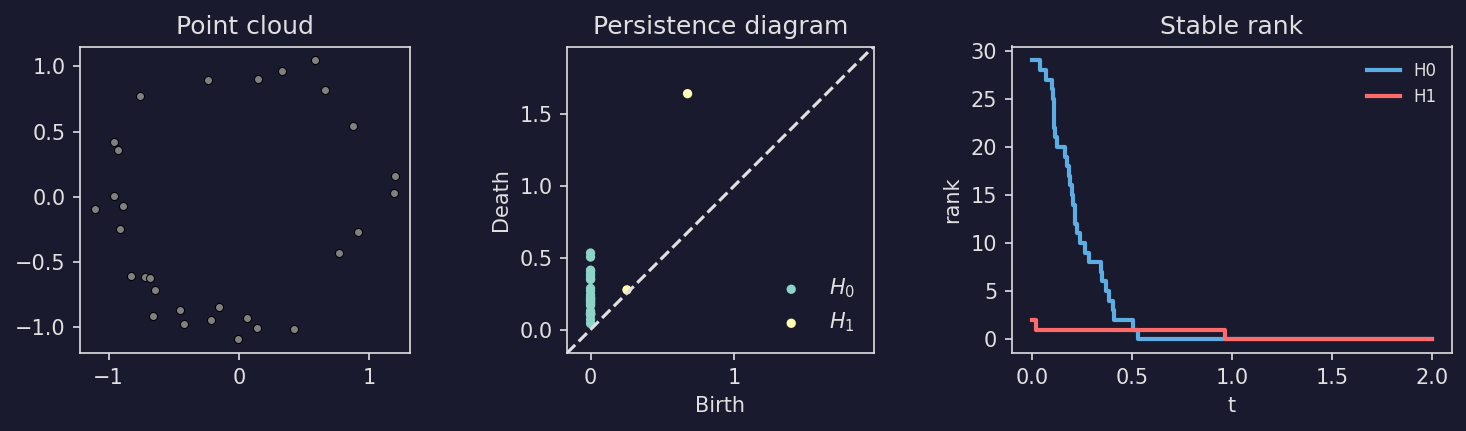
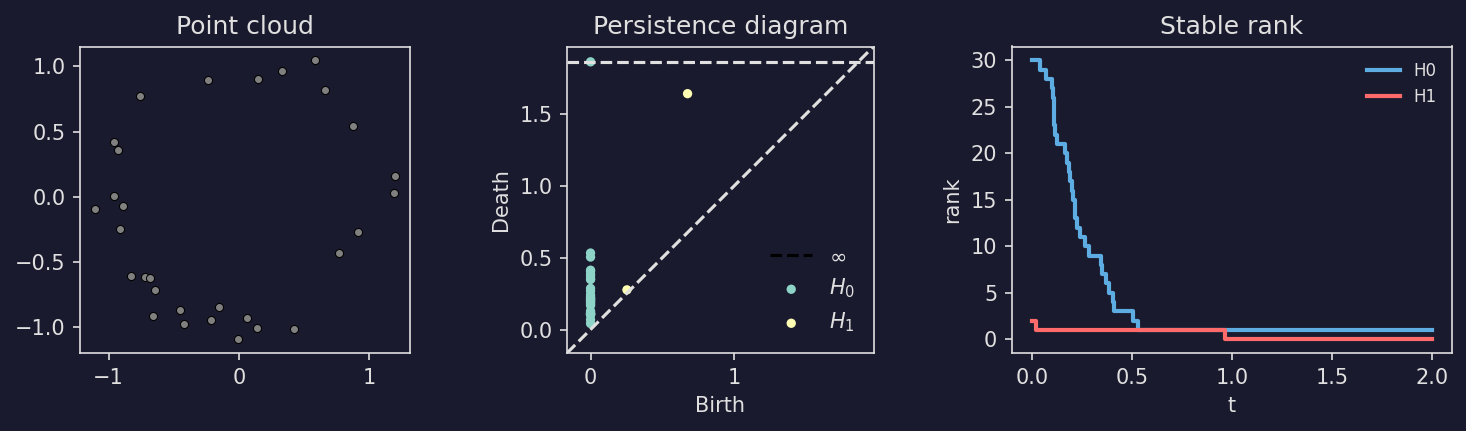
Unreduced homology by default

diff --git a/include/mpcf/persistence/compute_persistence.h b/include/mpcf/persistence/compute_persistence.h
@@ -31,7 +31,7 @@ namespace mpcf::ph
   namespace detail
   {
     template <typename T>
-    void compute_persistence_euclidean_single_impl(const Tensor<PointCloud<T>>& pclouds, Tensor<Barcode<T>>& ret, size_t maxDim, const std::vector<size_t>& index)
+    void compute_persistence_euclidean_single_impl(const Tensor<PointCloud<T>>& pclouds, Tensor<Barcode<T>>& ret, size_t maxDim, const std::vector<size_t>& index, bool reducedHomology = false)
     {
       if (index.back() != 0)
       {
@@ -94,21 +94,22 @@ namespace mpcf::ph
         auto retIdx = index;
         retIdx.back() = i;
 
-        if constexpr (std::is_same_v<T, rips::value_t>)
+        std::vector<PersistencePair<T>> bars;
+        bars.reserve(intervals.size() + 1);
+
+        // Ripser computes reduced homology. When unreduced homology is
+        // requested, insert the essential H0 class (born at 0, never dies).
+        if (i == 0 && !reducedHomology)
         {
-          ret(retIdx) = intervals;
+          bars.emplace_back(T{0}, std::numeric_limits<T>::infinity());
         }
-        else
+
+        for (auto const& rpair : intervals)
         {
-          // TODO: template on bar type in Ripser so that we don't have to do this conversion
-          std::vector<PersistencePair<T>> conv;
-          conv.resize(intervals.size());
-          std::transform(intervals.begin(), intervals.end(), conv.begin(),
-            [](const PersistencePair<rips::value_t>& rpair) {
-              return PersistencePair<T>(static_cast<T>(rpair.birth), static_cast<T>(rpair.death));
-            });
-          ret(retIdx) = conv;
+          bars.emplace_back(static_cast<T>(rpair.birth), static_cast<T>(rpair.death));
         }
+
+        ret(retIdx) = std::move(bars);
       }
     }
   }
@@ -117,8 +118,8 @@ namespace mpcf::ph
   class RipserTask : public StoppableTask<void>
   {
   public:
-    RipserTask(const Tensor<PointCloud<T>>& pclouds, Tensor<Barcode<T>>& ret, size_t maxDim = 1)
-      : m_pclouds(pclouds), m_ret(ret), m_maxDim(maxDim)
+    RipserTask(const Tensor<PointCloud<T>>& pclouds, Tensor<Barcode<T>>& ret, size_t maxDim = 1, bool reducedHomology = false)
+      : m_pclouds(pclouds), m_ret(ret), m_maxDim(maxDim), m_reducedHomology(reducedHomology)
     { }
 
   private:
@@ -142,7 +143,7 @@ namespace mpcf::ph
         flow.emplace([this, index] {
           if (stop_requested())
             return;
-          detail::compute_persistence_euclidean_single_impl(m_pclouds, m_ret, m_maxDim, index);
+          detail::compute_persistence_euclidean_single_impl(m_pclouds, m_ret, m_maxDim, index, m_reducedHomology);
           add_progress(1);
         });
       });
@@ -153,6 +154,7 @@ namespace mpcf::ph
     const Tensor<PointCloud<T>>& m_pclouds;
     Tensor<Barcode<T>>& m_ret;
     size_t m_maxDim;
+    bool m_reducedHomology;
 
   };
 

diff --git a/test/python/persistence/test_ripser.py b/test/python/persistence/test_ripser.py
@@ -72,15 +72,18 @@ def test_persistence_ripser_compute_euclidean_barcode_from_pcloud_tensor_returns
     assert bcs.shape == (3, 2, 7, 4)
 
 
-def test_persistence_ripser_compute_euclidean_barcode_gets_correct_barcode():
-    X = np.zeros((4, 2))
-
+def _make_rectangle_point_cloud():
     # Distance space is "two 3-4-5 triangles". This gives nontrivial H0 and H1 with bars at integers.
-
+    X = np.zeros((4, 2))
     X[0, :] = [0.0, 0.0]
     X[1, :] = [0.0, 4.0]
     X[2, :] = [3.0, 0.0]
     X[3, :] = [3.0, 4.0]
+    return X
+
+
+def test_persistence_ripser_unreduced_homology():
+    X = _make_rectangle_point_cloud()
 
     bcs = mpers.compute_persistent_homology(
         X,
@@ -93,14 +96,35 @@ def test_persistence_ripser_compute_euclidean_barcode_gets_correct_barcode():
     h1 = bcs[1]
     h2 = bcs[2]
 
-    expected_h0_bars = np.array([[0.0, 3.0], [0.0, 3.0], [0.0, 4]])
-    expected_h0 = mpers.Barcode(expected_h0_bars)
+    expected_h0 = mpers.Barcode(np.array([
+        [0.0, np.inf], [0.0, 3.0], [0.0, 3.0], [0.0, 4.0],
+    ]))
+    expected_h1 = mpers.Barcode(np.array([[4.0, 5.0]]))
+    expected_h2 = mpers.Barcode(np.zeros((0, 2)))
 
-    expected_h1_bars = np.array([[4.0, 5.0]])
-    expected_h1 = mpers.Barcode(expected_h1_bars)
+    assert expected_h0.is_isomorphic_to(h0)
+    assert expected_h1.is_isomorphic_to(h1)
+    assert expected_h2.is_isomorphic_to(h2)
 
-    expected_h2_bars = np.zeros((0, 2))
-    expected_h2 = mpers.Barcode(expected_h2_bars)
+
+def test_persistence_ripser_reduced_homology():
+    X = _make_rectangle_point_cloud()
+
+    bcs = mpers.compute_persistent_homology(
+        X,
+        maxDim=2,
+        reduced=True,
+        complex_type=mpers.ComplexType.VietorisRips,
+        distance_type=mpers.DistanceType.Euclidean,
+    )
+
+    h0 = bcs[0]
+    h1 = bcs[1]
+    h2 = bcs[2]
+
+    expected_h0 = mpers.Barcode(np.array([[0.0, 3.0], [0.0, 3.0], [0.0, 4.0]]))
+    expected_h1 = mpers.Barcode(np.array([[4.0, 5.0]]))
+    expected_h2 = mpers.Barcode(np.zeros((0, 2)))
 
     assert expected_h0.is_isomorphic_to(h0)
     assert expected_h1.is_isomorphic_to(h1)

diff --git a/masspcf/persistence/homology.py b/masspcf/persistence/homology.py
@@ -47,6 +47,7 @@ def compute_persistent_homology(
     maxDim: int = 1,
     distance_type: DistanceType = DistanceType.Euclidean,
     complex_type: ComplexType = ComplexType.VietorisRips,
+    reduced: bool = False,
     verbose: bool = True,
 ) -> Barcode32Tensor | Barcode64Tensor:
     r"""Compute persistent homology of a point cloud.
@@ -71,6 +72,10 @@ def compute_persistent_homology(
         Distance metric, by default ``DistanceType.Euclidean``.
     complex_type : ComplexType, optional
         Simplicial complex type, by default ``ComplexType.VietorisRips``.
+    reduced : bool, optional
+        If ``True``, compute reduced homology (no essential H0 class).
+        If ``False`` (default), an infinite bar ``[0, inf)`` is added to
+        H0 representing the single connected component.
     verbose : bool, optional
         Show progress information, by default True.
 
@@ -118,7 +123,7 @@ def compute_persistent_homology(
         # Use Ripser
         match distance_type:
             case DistanceType.Euclidean:
-                task = _compute_barcodes_euclidean_pcloud_ripser(X, out, maxDim)
+                task = _compute_barcodes_euclidean_pcloud_ripser(X, out, maxDim, reduced)
             case _:
                 raise ValueError(
                     f"Distance type {distance_type} not supported for complex type {complex_type}."

diff --git a/src/python/persistence/py_ripser.cpp b/src/python/persistence/py_ripser.cpp
@@ -28,9 +28,9 @@ namespace
   class PyRipserBindings
   {
   public:
-    static std::unique_ptr<mpcf::StoppableTask<void>> spawn_ripser_pcloud_euclidean_task(const mpcf::Tensor<mpcf::PointCloud<T>>& pclouds, mpcf::Tensor<mpcf::ph::Barcode<T>>& out, size_t maxDim)
+    static std::unique_ptr<mpcf::StoppableTask<void>> spawn_ripser_pcloud_euclidean_task(const mpcf::Tensor<mpcf::PointCloud<T>>& pclouds, mpcf::Tensor<mpcf::ph::Barcode<T>>& out, size_t maxDim, bool reducedHomology)
     {
-      return mpcf_py::execute_stoppable_task<mpcf::ph::RipserTask<T>>(pclouds, out, maxDim);
+      return mpcf_py::execute_stoppable_task<mpcf::ph::RipserTask<T>>(pclouds, out, maxDim, reducedHomology);
     }
 
     static void register_bindings(py::module_& m, const std::string& suffix)

diff --git a/masspcf/persistence/ripser.py b/masspcf/persistence/ripser.py
@@ -24,9 +24,10 @@ def _compute_barcodes_euclidean_pcloud_ripser(
     X: PointCloud32Tensor | PointCloud64Tensor,
     out: Barcode32Tensor | Barcode64Tensor,
     maxDim: int = 1,
+    reducedHomology: bool = False,
 ):
     backend, X = _get_backend(
         X, {pcloud32: cpp_p.PersistenceRipser32, pcloud64: cpp_p.PersistenceRipser64}
     )
 
-    return backend.spawn_ripser_pcloud_euclidean_task(X._data, out._data, maxDim)
+    return backend.spawn_ripser_pcloud_euclidean_task(X._data, out._data, maxDim, reducedHomology)

diff --git a/docs/persistence.rst b/docs/persistence.rst
@@ -62,7 +62,7 @@ Higher-dimensional tensors work as well::
 Step 2: Computing persistent homology
 =======================================
 
-:py:func:`~masspcf.persistence.compute_persistent_homology` takes a tensor of point clouds and returns a tensor of persistence barcodes. Barcode computation is performed using Ripser [B21]_ under the hood.
+:py:func:`~masspcf.persistence.compute_persistent_homology` takes a tensor of point clouds and returns a tensor of persistence barcodes. Barcode computation is performed using Ripser [B21]_ under the hood::
 
    from masspcf import persistence as mpers
 
@@ -103,6 +103,7 @@ The function supports the following options:
 
 - ``distance_type`` -- The distance metric used between points. Currently only ``DistanceType.Euclidean`` (the default).
 - ``complex_type`` -- The simplicial complex construction. Currently only ``ComplexType.VietorisRips`` (the default).
+- ``reduced`` -- If ``True``, compute reduced homology. If ``False`` (the default), an essential ``[0, inf)`` bar is added to :math:`H_0` representing the single connected component that never dies. This matches the convention used by most TDA textbooks.
 - ``verbose`` -- Print progress information (default ``True``).
 
 
